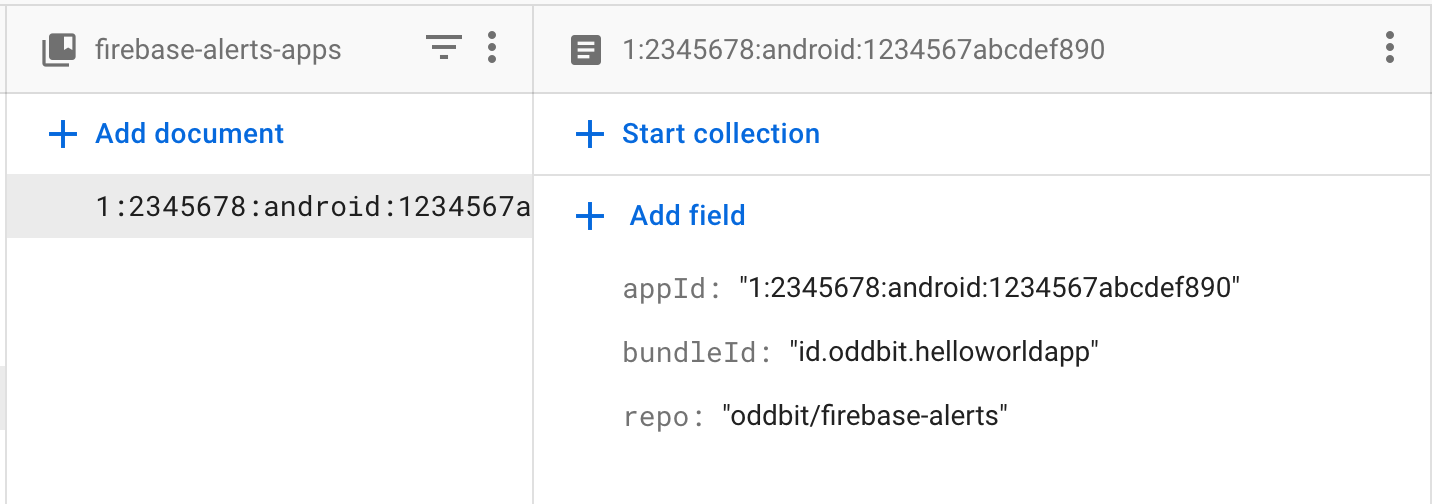
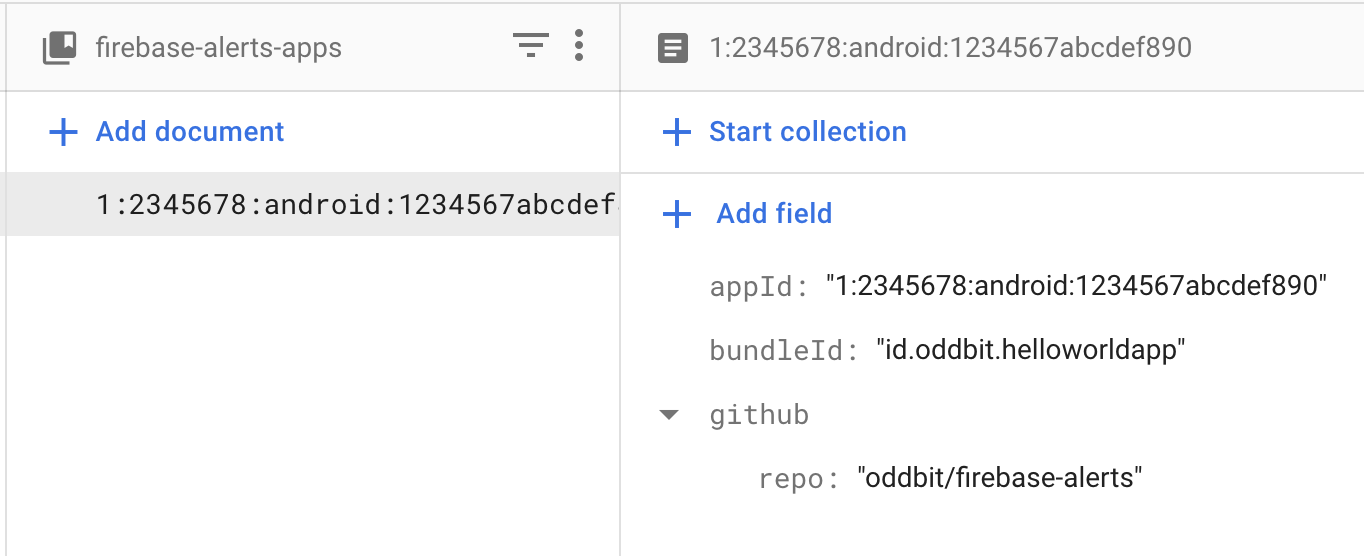
Updating documentation

diff --git a/README.md b/README.md
@@ -74,10 +74,10 @@ Create one document for each of your Firebase app ids in a collection named
 
  - `appId` - Firebase app id 
  - `bundleId` - Application bundle id (e.g. `id.oddbit.helloworldapp`)
- - `repo` - Github repository owner and name (e.g. `oddbit/firebase-alerts`)
+ - `github` - Optional object for github info
+     - `repo` - Repository owner and name (e.g. `oddbit/firebase-alerts`)
  
 ![Webhook Firestore Doc](./doc/images/firestore-doc-app.png)
-
 
 # Getting involved
 If you're reading this, you're awesome! 
